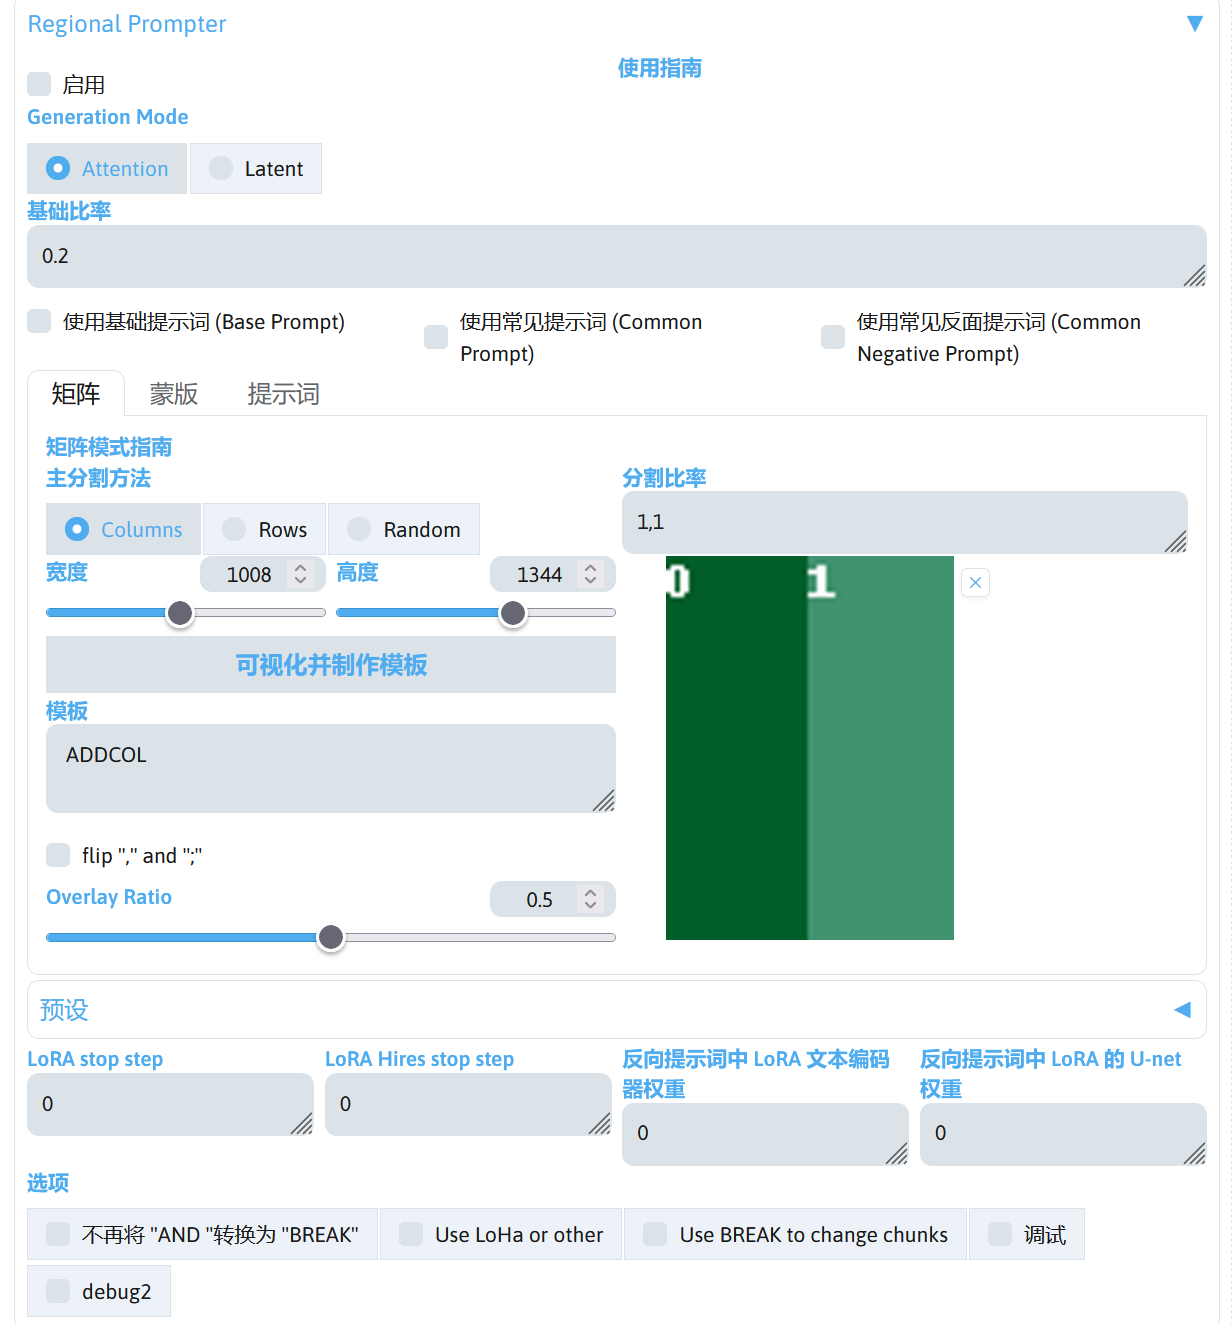
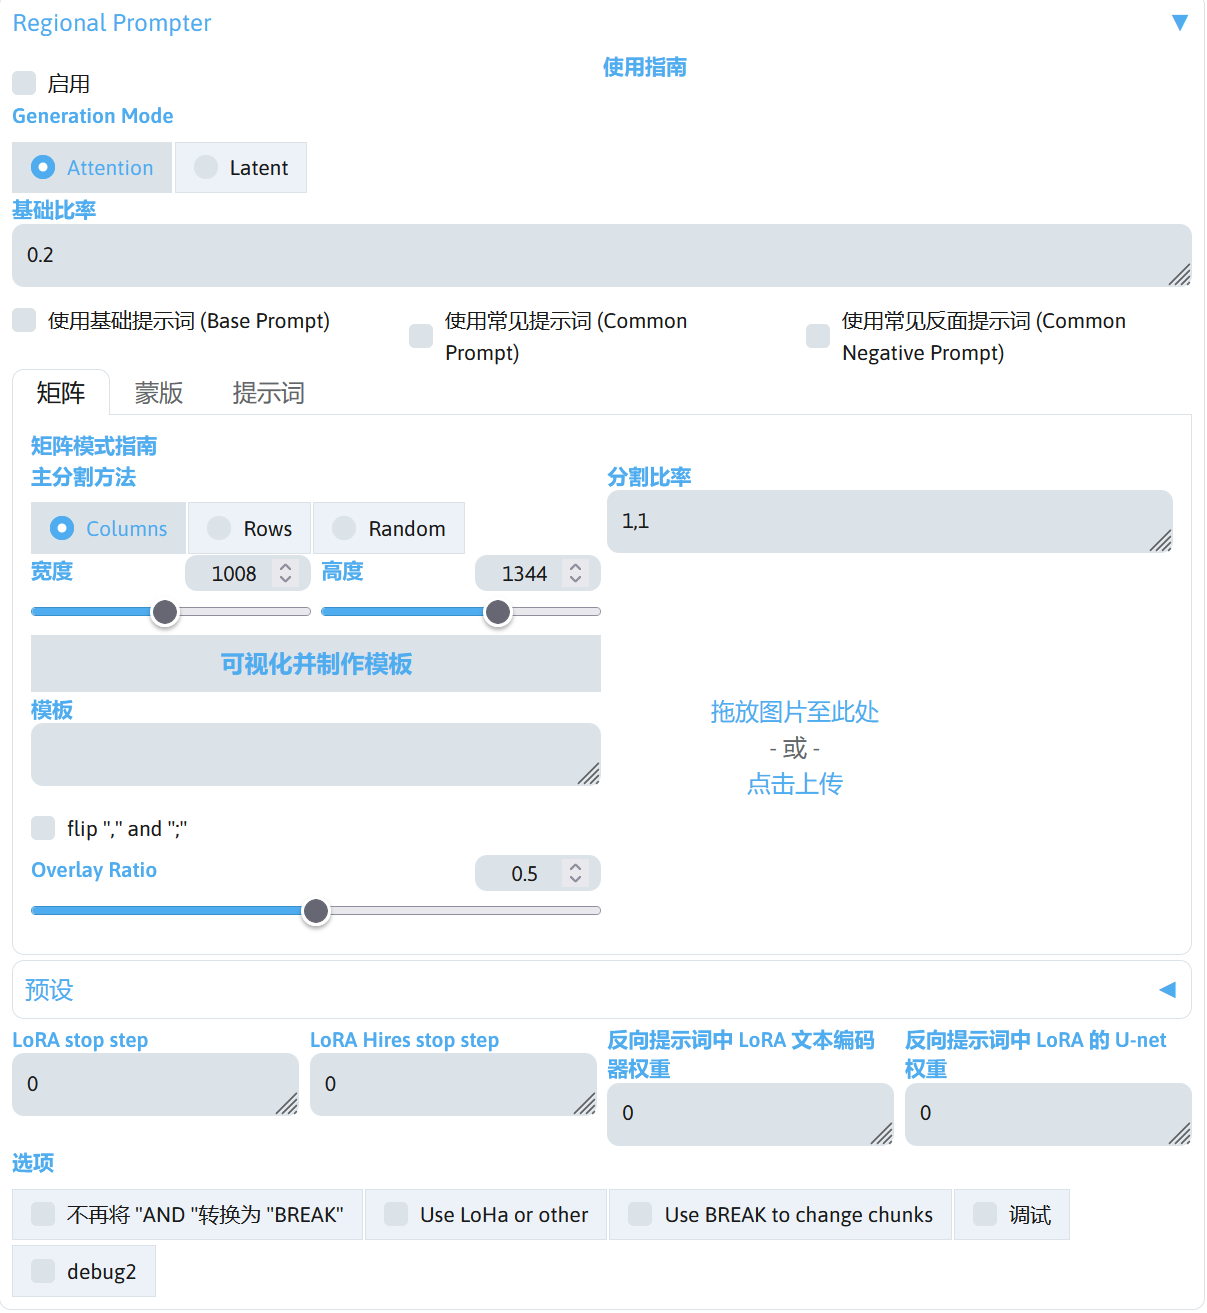
update

diff --git a/docs/guide/sd_webui/advance_prompt.md b/docs/guide/sd_webui/advance_prompt.md
@@ -105,27 +105,67 @@ red Hanfu, red ribbons,
 下面使用 sd-webui-regional-prompter 扩展进行分区绘制，这是 sd-webui-regional-prompter 扩展的界面。
 
 ![region_prompter_interface](../../assets/images/guide/sd_webui/prompt/region_prompter_interface.png)
-<!-- TODO: 换张图-->
 
 简单介绍该扩展中的参数。
 
+
 ### Generation Mode
-设置分区绘制的工作模式，可选择 Attention 或者 Latent 模式，Attention 模式通常效果更好。
+设置分区绘制的工作模式，可选择 Attention 或者 Latent 模式。
+
+Attention 模式作用于模型的注意力上，在分区绘制上画面协调性更高，推荐使用。
+
+Latent 模式通过分别绘制潜空间图像并重新合并，可以分离 LoRA 的效果，但画面协调性较差。
+
 
 ### 基础比率
-设置分区提示词的权重，启用**使用基础提示词**时生效。例如设置为 0.2 时，生成图像的提示词为 **0.2 权重的基础提示词 + 0.8 权重的分区提示词**。如果输入多个数字并使用逗号隔开则是分别设置权重。当分割比率为`1,1`，基础比率为`0.1,0.5,0.8`时，基础提示词权重为 0.1，两个分区的权重分别为 0.5 和 0.8。
+设置分区提示词的权重，启用**使用基础提示词**时生效。例如设置为 0.2 时，生成图像的提示词为 **0.2 权重的基础提示词 + 0.8 权重的分区提示词**。
+
+如果输入多个数字并使用逗号隔开则是分别设置权重。当分割比率为`1,1`，基础比率为`0.1,0.5,0.8`时，基础提示词权重为 0.1，两个分区的权重分别为 0.5 和 0.8。
+
 
 ### 提示词模式
 使用分区提示词时可以设置提示词的模式，
 
+
 #### 使用基础提示词
-启用后，当设置的分区为 2 个时，提示词需要输入基础提示词和两个分区的提示词，使用 BREAK 分隔，即**基础提示词  BREAK  分区提示词 1  BREAK  分区提示词 2**，并根据基础比率设置基础提示词和分区提示词的权重。
+启用后，当设置的分区为 2 个时，提示词需要输入基础提示词和两个分区的提示词，使用 BREAK 分隔，即：
+
+```
+基础提示词
+BREAK
+分区提示词 1
+BREAK
+分区提示词 2
+```
+
+并根据基础比率设置基础提示词和分区提示词的权重。
+
 
 ### 使用常见提示词
-启用后，当设置的分区为 2 个时，提示词需要输入常见提示词和两个分区的提示词，使用 BREAK 分隔，即**常见提示词  BREAK  分区提示词 1  BREAK  分区提示词 2**，但常见提示词将会合并进行分区提示词中，最后的提示词结果将变成**常见提示词, 分区提示词 1  BREAK  常见提示词, 分区提示词 2**
+启用后，当设置的分区为 2 个时，提示词需要输入常见提示词和两个分区的提示词，使用 BREAK 分隔，即：
+
+```
+常见提示词
+BREAK
+分区提示词 1
+BREAK
+分区提示词 2
+```
+
+但常见提示词将会合并进行分区提示词中，最后的提示词结果将变成：
+
+```
+常见提示词, 分区提示词 1
+BREAK
+常见提示词, 分区提示词 2
+```
+
+!!!warning
+    如果在常用提示词中写了调用 LoRA 的提示词，请将 LoRA 的权重降低。如果使用的 LoRA 权重为 1，分区有 2 个，则建议 LoRA 的权重为 0.5（原 LoRA 的权重除以分区数量），否则将会造成 LoRA 权重过大导致画面崩坏。
+
 
 ### 使用常见反面提示词
-将常见提示词也应用于反向提示词中。
+将常见提示词模式应用于反向提示词中，通常不需要使用。
 
 
 ### 主分割方法
@@ -133,11 +173,36 @@ red Hanfu, red ribbons,
 
 
 ### 宽度 / 高度
-建议和出图设置的宽度和高度一致。
+设置可视化模板图片的宽度和高度，不影响出图效果，保持默认即可，
 
 
 ### 分割比率
-设置区域分割的数量和比率大小。
+设置区域分割的数量和比率大小，使用`,`进行分割，`;`分割符则和`,`的分割方向相反。
+
+例如主分割方法为 Columns，则`,`按列分割，`,`按行分割。
+
+数字的大小决定分割的比率大小。
+
+
+### 模板
+显示特殊提示词分隔符。
+
+
+### flip "," and ";"
+交换`,`和`;`符号的作用，通常不需要使用。
+
+
+### Overlay Ratio
+设置不同分区之间的重叠比率，如果想要保持不同分区之间的重叠较低，保持更高的独立性，则降低该值。
+
+### 蒙版模式
+和矩阵模式不同，蒙版模式可以使用画笔绘制分区，自由度更高。
+
+宽度和高度设置为出图使用的宽度和高度后，点击创建蒙版区域，此时将生成蒙版区域用于绘制蒙版。
+
+使用画笔绘制一个区域后，点击**绘制区域和显示蒙版**即可保存绘制的区域，此时再使用画笔绘制另一个区域，再点击**绘制区域和显示蒙版**，通过该方式可以创建多个区域。
+
+
 
 !!!note
     sd-webui-regional-prompter 扩展下载：https://github.com/hako-mikan/sd-webui-regional-prompter  
